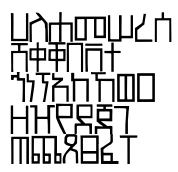
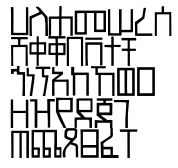
Start of adding ET-NCI fonts.

diff --git a/index.html b/index.html
@@ -951,6 +951,12 @@ by Unicode "blocks".</p>
   <tr>
     <td><b>AGF - Zemen</b><br/><img src="images/fonts/historical/AGF_Zemen.png"/></td><td><b>Manufacturer:</b>National Computer Center.<br/><b>Designer:</b> National Computer Center.<br/><b>Year / Place:</b> April 1994 / Addis Ababa<br/><b>License:</b>Unknown.<br/><b>Note:</b></td><td>N/A</td><td>N/A</td><td>N/A</td><td>N/A</td>
   </tr>
+  <tr>
+    <td><b>ET-NCI</b><br/><img src="images/fonts/historical/ET-NCI.png"/></td><td><b>Manufacturer:</b>New Concepts Incorporated.<br/><b>Designer:</b> Thira Thiramongkol.<br/><b>Year / Place:</b> 03/28/931992 / Unknown<br/><b>License:</b>Unknown.<br/><b>Note:</b> Copyright 1992</td><td>N/A</td><td>N/A</td><td>N/A</td><td>N/A</td>
+  </tr>
+  <tr>
+    <td><b>ET-NCI Italic</b><br/><img src="images/fonts/historical/ET-NCI-Italic.png"/></td><td><b>Manufacturer:</b>New Concepts Incorporated.<br/><b>Designer:</b> Thira Thiramongkol.<br/><b>Year / Place:</b> 03/28/931992 / Unknown<br/><b>License:</b>Unknown.<br/><b>Note:</b> Copyright 1992</td><td>N/A</td><td>N/A</td><td>N/A</td><td>N/A</td>
+  </tr>
 </table>
 
 
